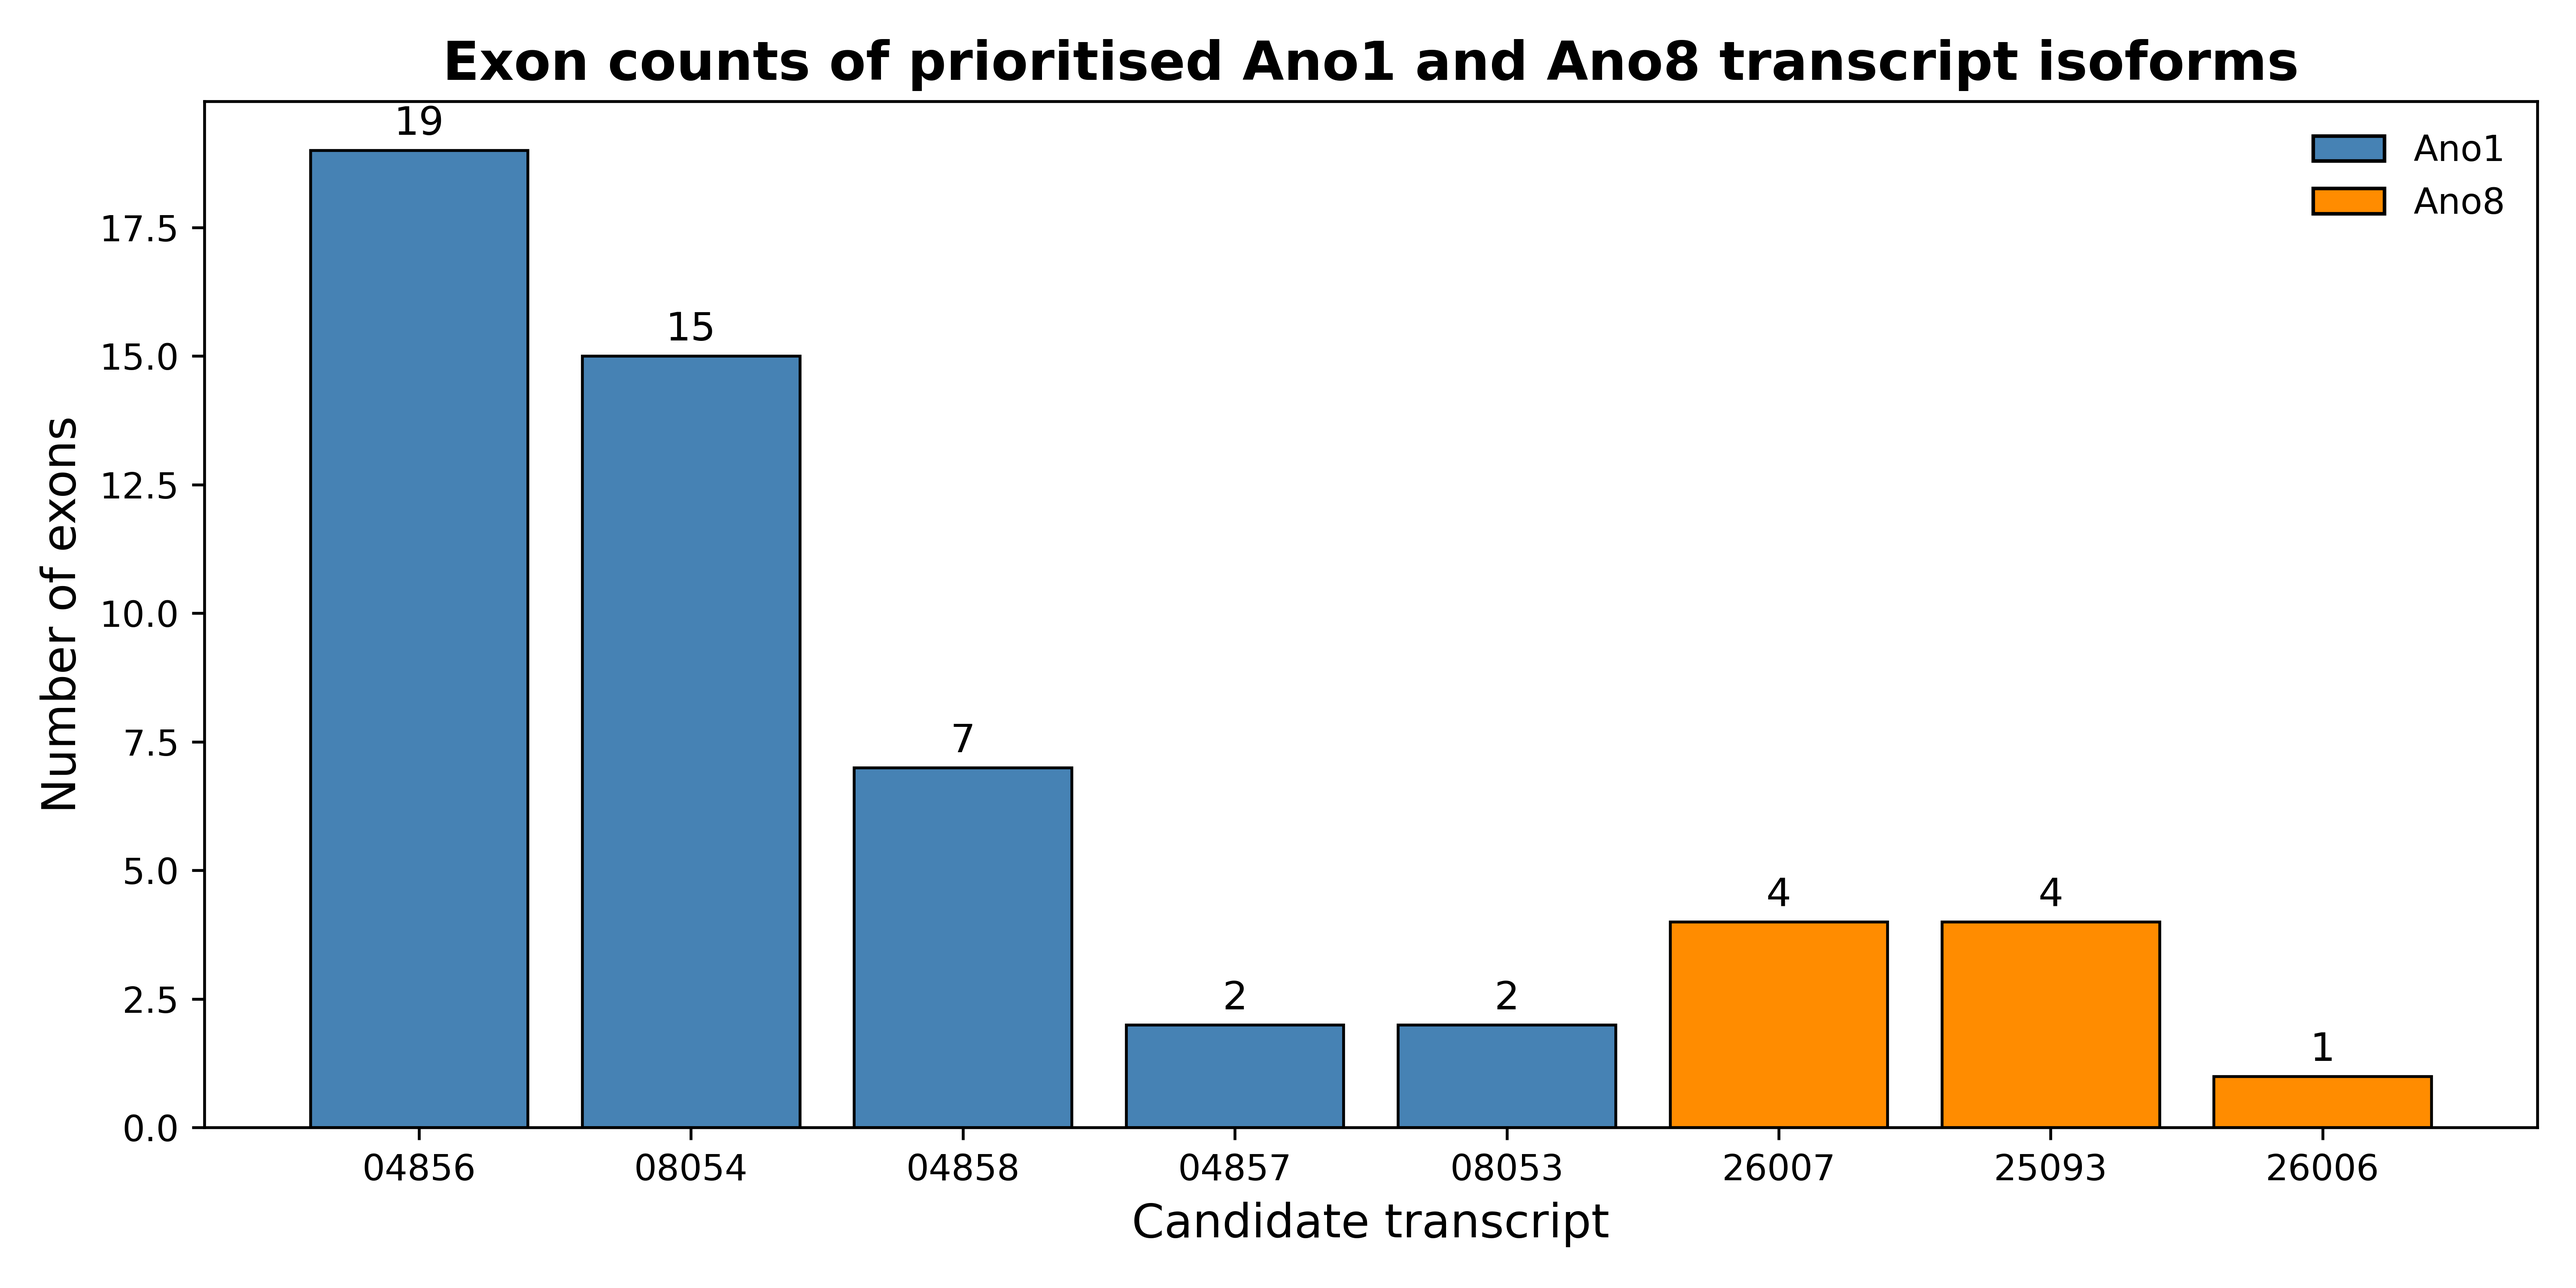
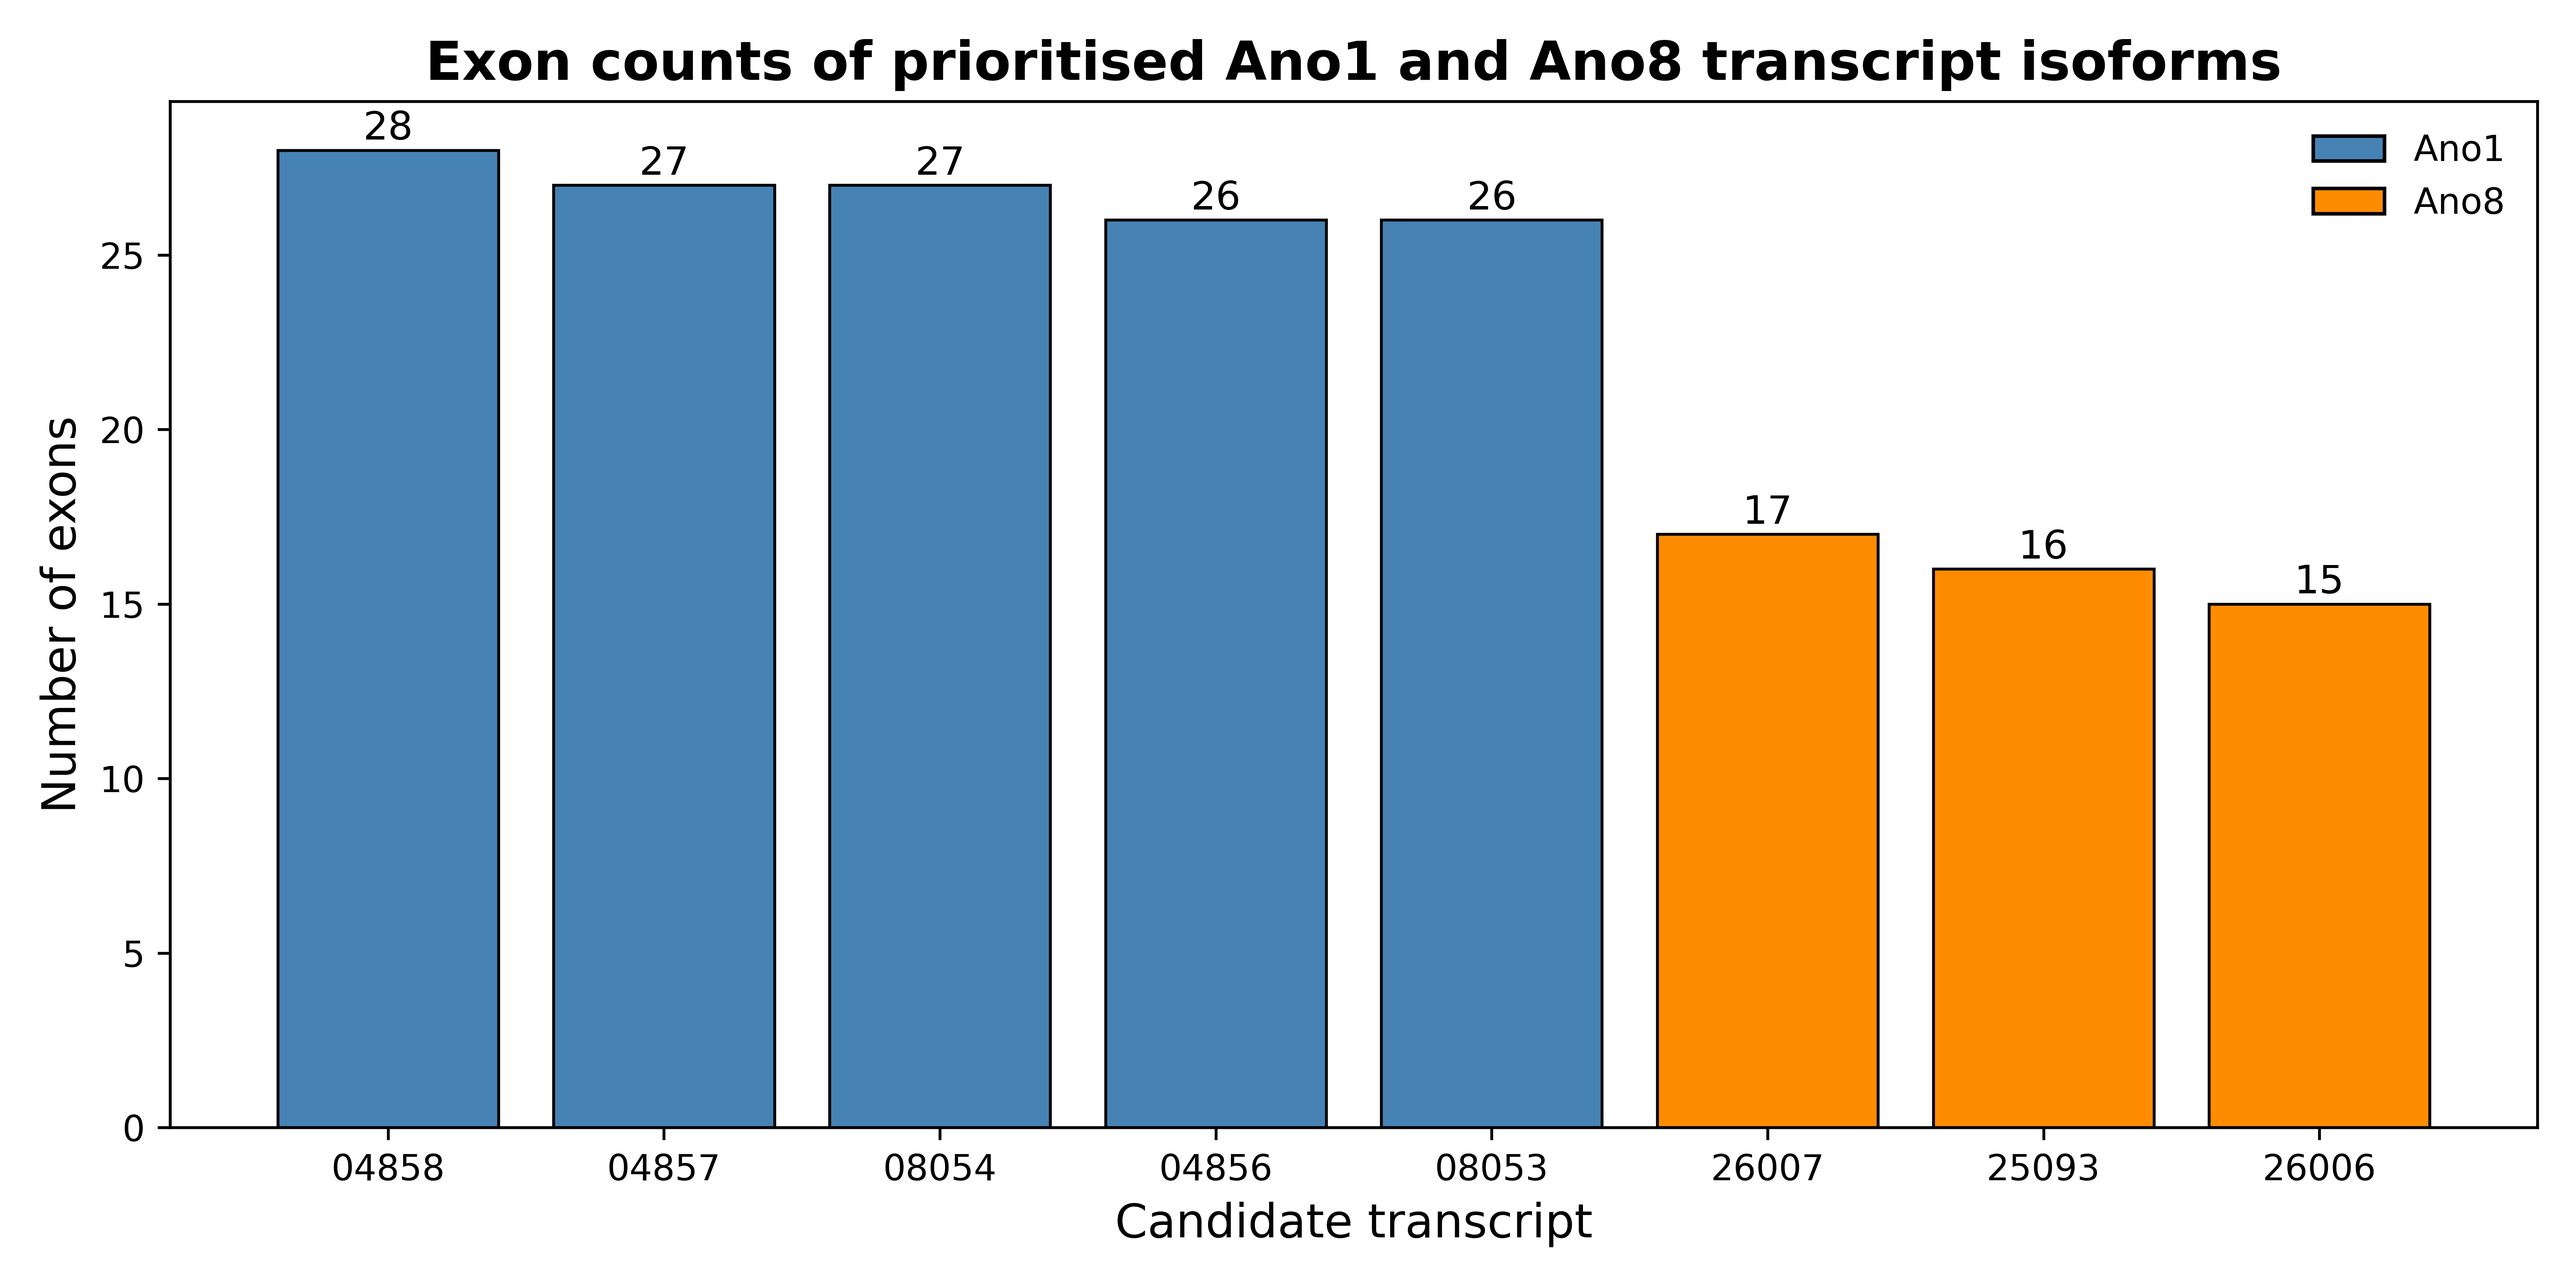
Align repository outputs with dissertation analysis

diff --git a/docs/workflow.md b/docs/workflow.md
@@ -4,6 +4,12 @@
 
 This workflow was developed to identify and prioritise novel chloride channel transcript variants in rat white fat adipocytes (WFA).
 
+## 0. Upstream quality control and preprocessing
+
+The dissertation records initial read-quality assessment with FastQC 0.11.9 and adapter/quality trimming with Trimmomatic 0.39. The original preprocessing command scripts and logs were not retained in this repository.
+
+The provided SLURM workflow begins from paired FASTQ files staged under `raw_fastq/` and reproduces the analysis from HISAT2 alignment onward.
+
 ## 1. RNA-seq alignment
 
 Paired-end RNA-seq reads from three WFA samples were aligned to the Rattus norvegicus Rnor_6.0 reference genome using HISAT2.
@@ -16,15 +22,25 @@ Transcript structures were reconstructed independently for each sample using Str
 
 ## 3. Transcript comparison
 
-The three StringTie transcript assemblies were compared with the reference annotation using GffCompare.
+Two GffCompare runs underpin the reported outputs.
 
-The final comparison used:
+The corrected summary run, `WFA_compare_final`, used:
 
-- sample1.fixed.gtf
-- sample2.gtf
-- sample3.gtf
+- `sample1.fixed.gtf`
+- `sample2.gtf`
+- `sample3.gtf`
 
-Novel splice variants were identified primarily using GffCompare class code `j`, representing potentially novel isoforms sharing at least one splice junction with a reference transcript.
+This run generated the global merged-assembly and transcript-classification statistics reported in the dissertation, including 87,185 consensus transcripts and 28,787 class-j transcripts.
+
+The candidate-discovery run, `WFA_compare_all3`, used:
+
+- `sample1.gtf`
+- `sample2.gtf`
+- `sample3.gtf`
+
+The eight prioritised *Ano1* and *Ano8* candidate identifiers and their downstream analyses were derived from this candidate-discovery run. GffCompare `TCONS_` identifiers are run-specific and must be interpreted using the corresponding combined GTF.
+
+Novel splice variants were identified using GffCompare class code `j`, representing potentially novel isoforms sharing at least one splice junction with a reference transcript.
 
 ## 4. Chloride channel candidate screening
 
@@ -41,15 +57,25 @@ Candidate assessment included:
 
 ## 5. Candidate prioritisation
 
-Novel transcript candidates were first identified from GffCompare class code `j` transcripts associated with chloride-channel-related genes.
+Filtering the candidate-discovery run identified 64 chloride-related class-j transcripts across 22 genes.
 
-Reproducibility across the three WFA samples was then assessed by identifying novel isoforms detected in at least two samples (`num_samples >= 2`). These reproducible novel isoforms formed the basis of the final high-confidence candidate set.
+The corrected gene-family summary, which sums to all 64 candidate isoforms, is provided in:
 
-Protein-domain evidence was subsequently incorporated using HMMER `hmmscan` against the Pfam-A HMM database to identify conserved domains relevant to chloride-channel function. The prioritised Ano1 transcript TCONS_00004856 and Ano8 transcript TCONS_00025093 contained the Pfam Anoctamin domain (PF04547.18), whereas the three prioritised Ano6 transcripts (TCONS_00055948, TCONS_00055949 and TCONS_00055950) contained the Anoctamin dimerisation domain (PF16178.11).
+`results/tables/gene_family_candidate_counts.tsv`
 
-The final high-confidence candidate table summarised the reproducible novel isoforms together with supporting evidence, including novel isoform status, reproducibility status and biological-family annotation (for example TMEM16/Anoctamin, SLC26 and VRAC), to facilitate biological interpretation.
+Reproducibility was assessed using the GffCompare tracking output. Novel isoforms detected in at least two samples (`num_samples >= 2`) were retained in the broader reproducible candidate set:
 
-Transcript-structure analyses focused primarily on prioritised Ano1 and Ano8 isoforms.
+`results/tables/reproducible_chloride_candidates.tsv`
+
+Further prioritisation incorporated transcript abundance, exon structure, coding-potential prediction, conserved-domain evidence, and biological relevance. This produced the final set of eight transcript isoforms: five associated with *Ano1* and three associated with *Ano8*.
+
+All eight final candidates retained the PF04547 anoctamin domain. Their genomic span, exon count, mean TPM, relative abundance, and domain evidence are summarised in:
+
+`results/tables/final_prioritised_candidates.tsv`
+
+The final eight candidates were used for expression, relative-abundance, exon-structure, protein-domain, and IGV analyses.
+
+The representative candidate GTF models used for IGV inspection are provided in `results/igv/`. The corresponding BAM alignment files are not included because of their size.
 
 ## 6. Visualisation
 

diff --git a/README.md b/README.md
@@ -13,11 +13,14 @@ RNA sequencing (RNA-seq) data from three independent WFA samples were analysed u
 
 The principal output of the workflow is the high-confidence candidate table:
 
-`results/tables/final_high_confidence_candidates.tsv`
+`results/tables/final_prioritised_candidates.tsv`
 
-which summarises the prioritised novel transcript variants together with supporting evidence, including reproducibility status and biological-family annotation.
+which summarises the eight prioritised *Ano1* and *Ano8* transcript isoforms together with their genomic span, exon count, mean TPM, relative abundance, and PF04547 anoctamin-domain evidence.
 
-Detailed visualisations focus on the prioritised *Ano1* and *Ano8* anoctamin candidates, while the final high-confidence table includes all reproducible chloride-channel-associated candidates.
+The broader reproducible chloride-related candidate set retained before final *Ano1*/*Ano8* prioritisation is provided in:
+
+`results/tables/reproducible_chloride_candidates.tsv`
+
 
 ## Analysis workflow
 
@@ -33,9 +36,17 @@ The main workflow consisted of:
 
 Detailed workflow information is available in `docs/workflow.md`.
 
+### Analysis provenance
+
+Global merged-assembly and transcript-classification statistics, including 87,185 consensus transcripts and 28,787 class-j transcripts, were obtained from the corrected `WFA_compare_final` run using `sample1.fixed.gtf`, `sample2.gtf`, and `sample3.gtf`.
+
+The eight prioritised *Ano1* and *Ano8* candidate identifiers and their downstream structural, expression, domain, and IGV analyses were derived from the earlier `WFA_compare_all3` candidate-discovery run using `sample1.gtf`, `sample2.gtf`, and `sample3.gtf`. GffCompare `TCONS_` identifiers are run-specific and should be interpreted using the corresponding source GTF.
+
 ## Input data
 
 Raw FASTQ files, alignment files, and reference files are not included in this repository because of their size. The paths in `metadata/samples.tsv` describe a standardised `raw_fastq/` staging layout for the three WFA samples. The SLURM scripts retain the original Ada HPC paths used during the analysis, including the separate source directories used for Samples 2 and 3.
+
+FastQC and Trimmomatic preprocessing are documented in the dissertation, but the original preprocessing commands and logs were not retained. The scripts in this repository reproduce the workflow from HISAT2 alignment onward.O
 
 ## Repository structure
 
@@ -63,14 +74,18 @@ The analysis used the following principal software:
 
 - Python 3.11.3
 - Matplotlib 3.7.2
+- FastQC 0.11.9
+- Trimmomatic 0.39
 - HISAT2 2.2.1
 - SAMtools 1.22.1
 - StringTie 2.2.1
 - HMMER 3.4
-- GffCompare
-- R
+- GffCompare 0.12.10
+- GffRead 0.12.7
+- TransDecoder 5.7.1
+- IGV 2.16.0
+- R 4.4.2
 
-The exact GffCompare and R versions used in the original analysis were not recorded.
 
 Install the Python plotting dependency with:
 
